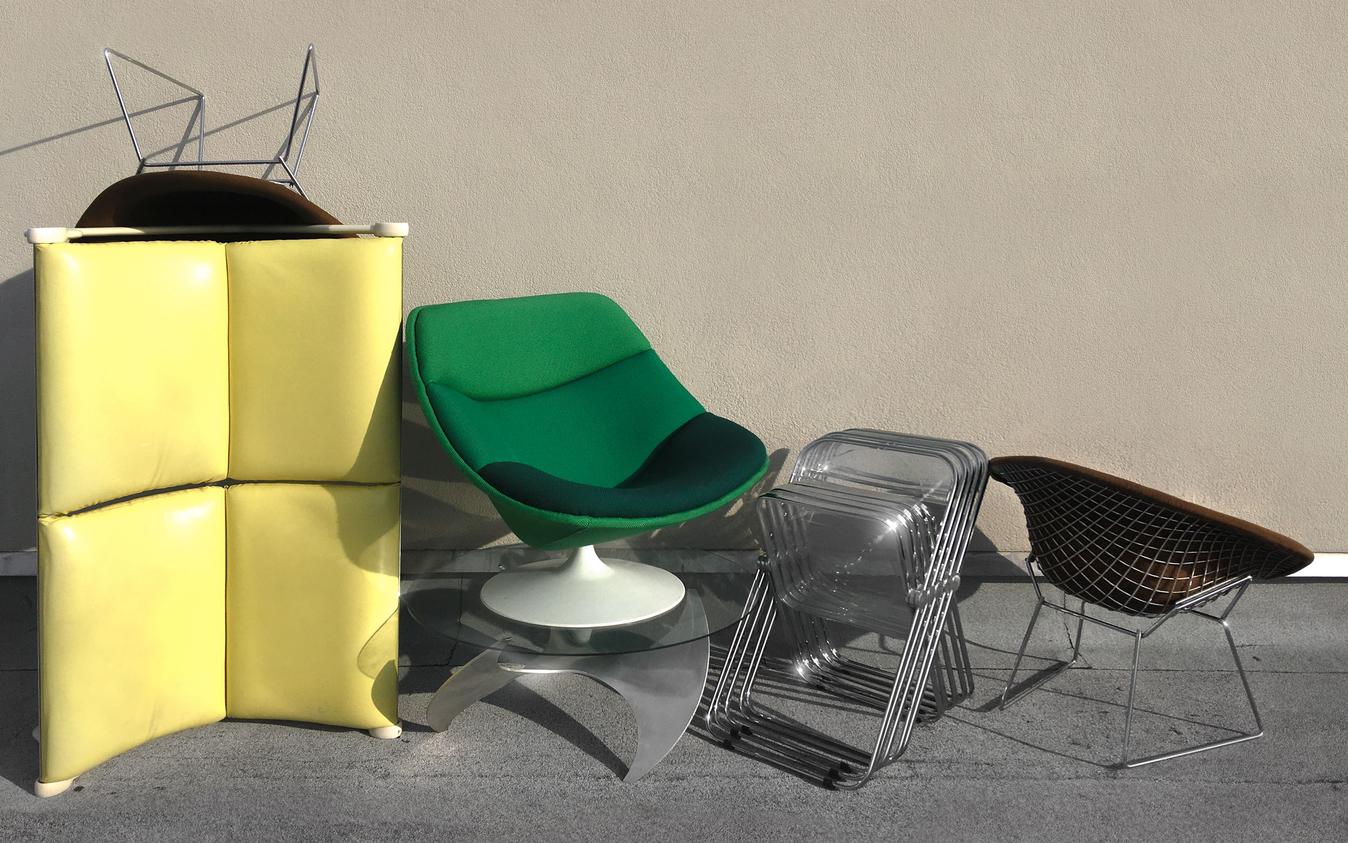
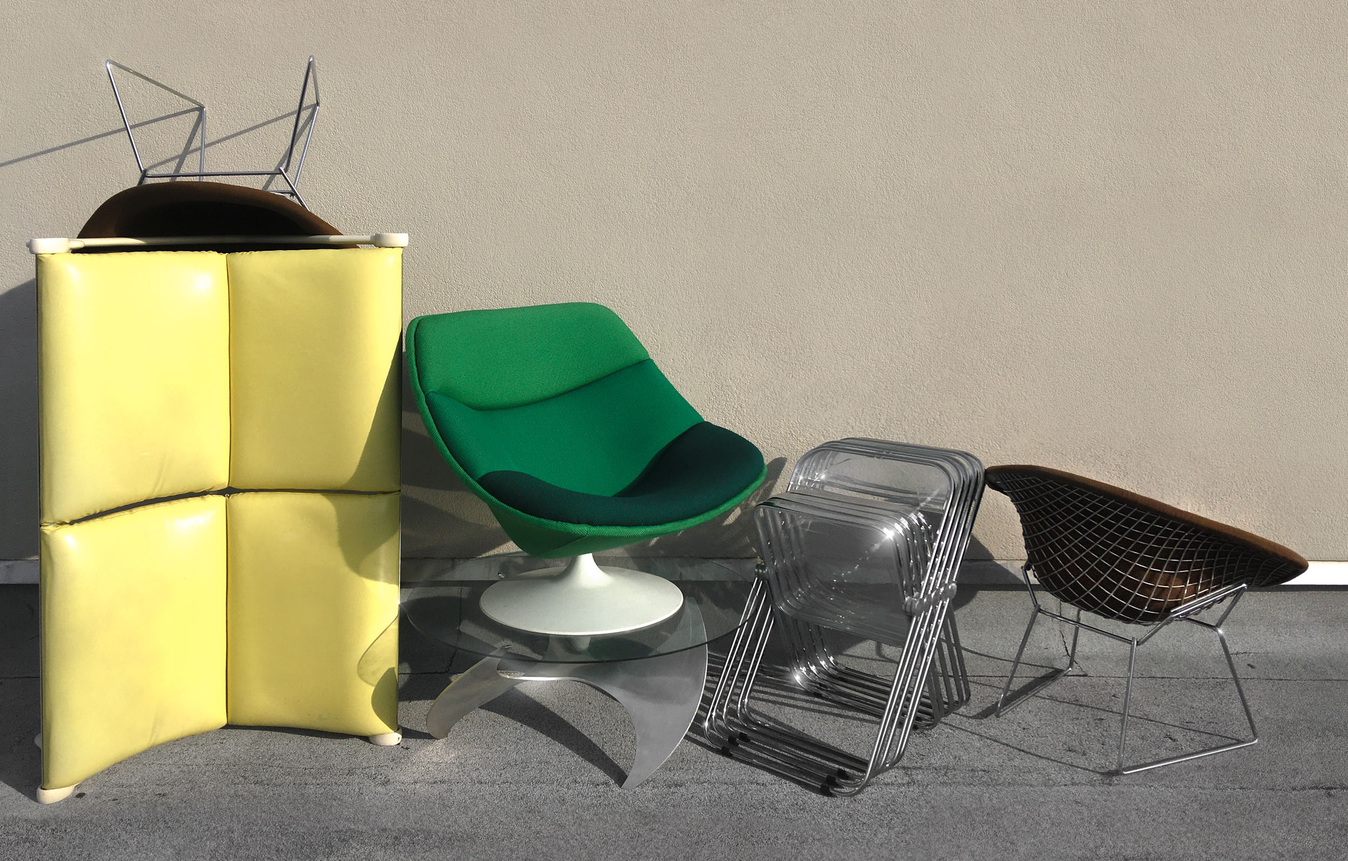
full screen bkground

diff --git a/public/css/fetish-priest.css b/public/css/fetish-priest.css
@@ -15,15 +15,18 @@ html {
 	top:0;
 	margin: 0px;
 	padding: 0;
-	background: url("../imgs/fetish-priest.jpg"); 
-	background-repeat: no-repeat;
+	/*background: url("../imgs/fetish-priest.jpg"); */
+	/*background-repeat: no-repeat;
 	height: 100%;
 	background-size: auto 100%;
-	background-position: right bottom;
-	/*-webkit-background-size: cover;
+	background-position: right bottom;*/
+	background: url("../imgs/fetish-priest.jpg") no-repeat center center fixed; 
+	/*width: 75%;*/
+	background-size: 75% auto;
+	-webkit-background-size: cover;
 	-moz-background-size: cover;
 	-o-background-size: cover;
-	background-size: cover;*/
+	background-size: cover;
 }
 
 body {
